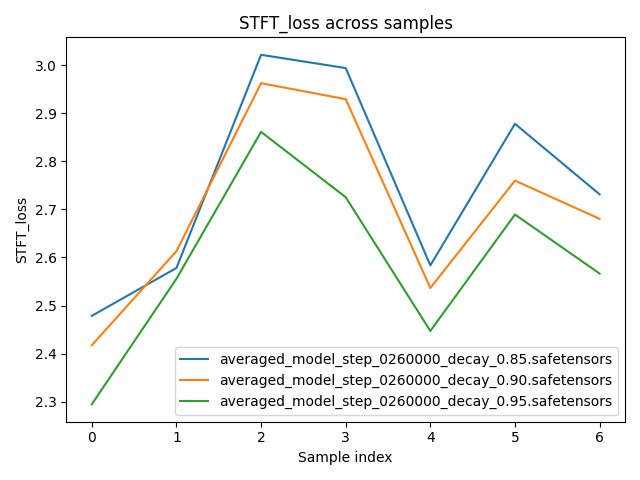
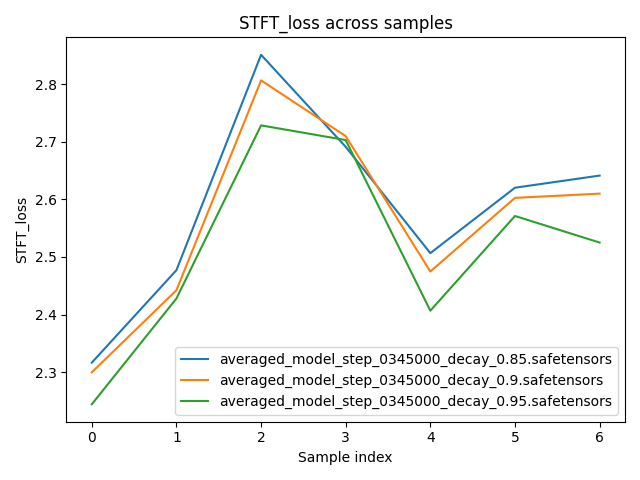
evals work (bad for current model)

diff --git a/average.py b/average.py
@@ -13,7 +13,7 @@ DECAY_RATES = [0.95, 0.9, 0.85]
 
 # Only consider checkpoints whose training step falls within this range (inclusive)
 MIN_STEP = 210000         # lower bound; change as needed
-MAX_STEP = 260000         # upper bound; change as needed                       
+MAX_STEP = 345000         # upper bound; change as needed                       
 
 ROOT = Path(CHECKPOINT_DIR).expanduser().resolve()
 STEP_REGEX = re.compile(r"step-([0-9]*\.?[0-9]+)")  

diff --git a/evals.py b/evals.py
@@ -7,7 +7,7 @@ from scipy.signal import resample_poly
 import csv, pathlib
 import matplotlib.pyplot as plt
 
-DEVICE: str = "cuda"
+DEVICE: str = "cpu"
 
 from metrics import sisdr, multiscale_stft_loss, visqol_score
 
